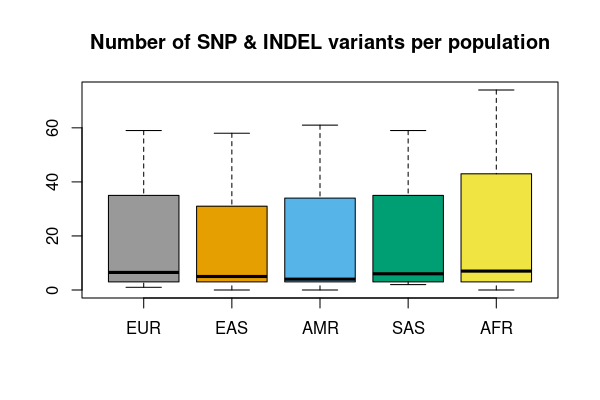
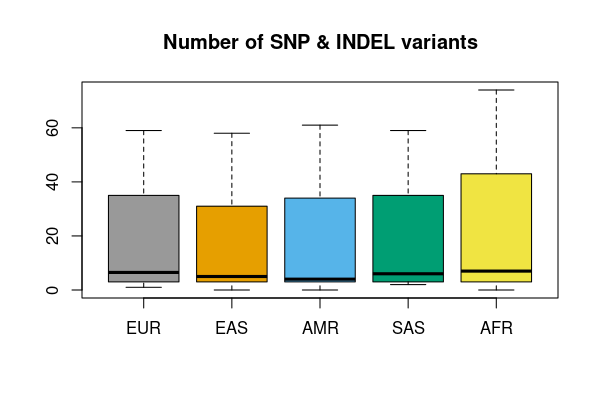
update pkgdown

Changed region(s): [[0.15, 0.06, 0.93, 0.15]]

diff --git a/docs/index.html b/docs/index.html
@@ -106,25 +106,46 @@
 <span><span class="va">popfile</span> <span class="op">&lt;-</span> <span class="st">"https://ftp.1000genomes.ebi.ac.uk/vol1/ftp/data_collections/1000G_2504_high_coverage/20130606_g1k_3202_samples_ped_population.txt"</span></span></code></pre></div>
 </div>
 <div class="section level2">
+<h2 id="vcftable-read-vcf-as-tabular-data">
+<code>vcftable</code>: read VCF as tabular data<a class="anchor" aria-label="anchor" href="#vcftable-read-vcf-as-tabular-data"></a>
+</h2>
+<p><code>vcftable</code> gives you fine control over what you want to extract from VCF/BCF files.</p>
+<p><strong>Read SNP variants with GT format and two samples</strong></p>
+<div class="sourceCode" id="cb4"><pre class="downlit sourceCode r">
+<code class="sourceCode R"><span><span class="kw"><a href="https://rdrr.io/r/base/library.html" class="external-link">library</a></span><span class="op">(</span><span class="va"><a href="https://github.com/Zilong-Li/vcfppR" class="external-link">vcfppR</a></span><span class="op">)</span></span>
+<span><span class="va">res</span> <span class="op">&lt;-</span> <span class="fu"><a href="reference/vcftable.html">vcftable</a></span><span class="op">(</span><span class="va">phasedvcf</span>, <span class="st">"chr21:1-5100000"</span>, samples <span class="op">=</span> <span class="st">"HG00673,NA10840"</span>, vartype <span class="op">=</span> <span class="st">"snps"</span><span class="op">)</span></span>
+<span><span class="fu"><a href="https://rdrr.io/r/utils/str.html" class="external-link">str</a></span><span class="op">(</span><span class="va">res</span><span class="op">)</span></span>
+<span><span class="co">#&gt; List of 10</span></span>
+<span><span class="co">#&gt;  $ samples: chr [1:2] "HG00673" "NA10840"</span></span>
+<span><span class="co">#&gt;  $ chr    : chr [1:194] "chr21" "chr21" "chr21" "chr21" ...</span></span>
+<span><span class="co">#&gt;  $ pos    : int [1:194] 5030578 5030588 5030596 5030673 5030957 5030960 5031004 5031031 5031194 5031224 ...</span></span>
+<span><span class="co">#&gt;  $ id     : chr [1:194] "21:5030578:C:T" "21:5030588:T:C" "21:5030596:A:G" "21:5030673:G:A" ...</span></span>
+<span><span class="co">#&gt;  $ ref    : chr [1:194] "C" "T" "A" "G" ...</span></span>
+<span><span class="co">#&gt;  $ alt    : chr [1:194] "T" "C" "G" "A" ...</span></span>
+<span><span class="co">#&gt;  $ qual   : num [1:194] 2.14e+09 2.14e+09 2.14e+09 2.14e+09 2.14e+09 ...</span></span>
+<span><span class="co">#&gt;  $ filter : chr [1:194] "." "." "." "." ...</span></span>
+<span><span class="co">#&gt;  $ info   : chr [1:194] "AC=74;AF=0.0115553;CM=0;AN=6404;AN_EAS=1170;AN_AMR=980;AN_EUR=1266;AN_AFR=1786;AN_SAS=1202;AN_EUR_unrel=1006;AN"| __truncated__ "AC=53;AF=0.00827608;CM=1.78789e-05;AN=6404;AN_EAS=1170;AN_AMR=980;AN_EUR=1266;AN_AFR=1786;AN_SAS=1202;AN_EUR_un"| __truncated__ "AC=2;AF=0.000312305;CM=3.21821e-05;AN=6404;AN_EAS=1170;AN_AMR=980;AN_EUR=1266;AN_AFR=1786;AN_SAS=1202;AN_EUR_un"| __truncated__ "AC=2;AF=0.000312305;CM=0.00016985;AN=6404;AN_EAS=1170;AN_AMR=980;AN_EUR=1266;AN_AFR=1786;AN_SAS=1202;AN_EUR_unr"| __truncated__ ...</span></span>
+<span><span class="co">#&gt;  $ gt     : int [1:194, 1:2] 0 0 0 0 0 0 0 0 0 0 ...</span></span>
+<span><span class="co">#&gt;  - attr(*, "class")= chr "vcftable"</span></span></code></pre></div>
+<p><strong>Read INDEL variants with DP format and QUAL&gt;100</strong></p>
+<div class="sourceCode" id="cb5"><pre class="downlit sourceCode r">
+<code class="sourceCode R"><span><span class="va">res</span> <span class="op">&lt;-</span> <span class="fu"><a href="reference/vcftable.html">vcftable</a></span><span class="op">(</span><span class="va">rawvcf</span>, <span class="st">"chr21:1-5100000"</span>, vartype <span class="op">=</span> <span class="st">"indels"</span>, format <span class="op">=</span> <span class="st">"DP"</span>, qual<span class="op">=</span><span class="fl">100</span><span class="op">)</span></span>
+<span><span class="fu"><a href="reference/vcfplot.html">vcfplot</a></span><span class="op">(</span><span class="va">res</span>, which.sample <span class="op">=</span> <span class="fl">10</span>, ylim<span class="op">=</span><span class="fu"><a href="https://rdrr.io/r/base/c.html" class="external-link">c</a></span><span class="op">(</span><span class="fl">0</span>,<span class="fl">60</span><span class="op">)</span>, col <span class="op">=</span> <span class="fl">3</span>, pch<span class="op">=</span><span class="fl">19</span><span class="op">)</span></span></code></pre></div>
+<p><img src="reference/figures/README-dp-1.png" width="100%"></p>
+</div>
+<div class="section level2">
 <h2 id="vcfcomp-compare-two-vcf-files-and-report-concordance">
 <code>vcfcomp</code>: compare two VCF files and report concordance<a class="anchor" aria-label="anchor" href="#vcfcomp-compare-two-vcf-files-and-report-concordance"></a>
 </h2>
 <p>Want to investigate the concordance between two VCF files? <code>vcfcomp</code> is the utility function you need! For example, in benchmarkings, we intend to calculate the genotype correlation between the test and the truth.</p>
-<div class="sourceCode" id="cb4"><pre class="downlit sourceCode r">
-<code class="sourceCode R"><span><span class="kw"><a href="https://rdrr.io/r/base/library.html" class="external-link">library</a></span><span class="op">(</span><span class="va"><a href="https://github.com/Zilong-Li/vcfppR" class="external-link">vcfppR</a></span><span class="op">)</span></span>
-<span><span class="va">res</span> <span class="op">&lt;-</span> <span class="fu"><a href="reference/vcfcomp.html">vcfcomp</a></span><span class="op">(</span>test <span class="op">=</span> <span class="va">rawvcf</span>, truth <span class="op">=</span> <span class="va">phasedvcf</span>,</span>
+<div class="sourceCode" id="cb6"><pre class="downlit sourceCode r">
+<code class="sourceCode R"><span><span class="va">res</span> <span class="op">&lt;-</span> <span class="fu"><a href="reference/vcfcomp.html">vcfcomp</a></span><span class="op">(</span>test <span class="op">=</span> <span class="va">rawvcf</span>, truth <span class="op">=</span> <span class="va">phasedvcf</span>,</span>
 <span>               stats <span class="op">=</span> <span class="st">"r2"</span>, region <span class="op">=</span> <span class="st">"chr21:1-5100000"</span>, </span>
 <span>               formats <span class="op">=</span> <span class="fu"><a href="https://rdrr.io/r/base/c.html" class="external-link">c</a></span><span class="op">(</span><span class="st">"GT"</span>,<span class="st">"GT"</span><span class="op">)</span><span class="op">)</span></span>
 <span><span class="fu"><a href="https://rdrr.io/r/graphics/par.html" class="external-link">par</a></span><span class="op">(</span>mar<span class="op">=</span><span class="fu"><a href="https://rdrr.io/r/base/c.html" class="external-link">c</a></span><span class="op">(</span><span class="fl">5</span>,<span class="fl">5</span>,<span class="fl">2</span>,<span class="fl">2</span><span class="op">)</span>, cex.lab <span class="op">=</span> <span class="fl">2</span><span class="op">)</span></span>
 <span><span class="fu"><a href="reference/vcfplot.html">vcfplot</a></span><span class="op">(</span><span class="va">res</span>, col <span class="op">=</span> <span class="fl">2</span>,cex <span class="op">=</span> <span class="fl">2</span>, lwd <span class="op">=</span> <span class="fl">3</span>, type <span class="op">=</span> <span class="st">"b"</span><span class="op">)</span></span></code></pre></div>
 <p><img src="reference/figures/README-r2-1.png" width="100%"></p>
-<div class="sourceCode" id="cb5"><pre class="downlit sourceCode r">
-<code class="sourceCode R"><span><span class="va">res</span> <span class="op">&lt;-</span> <span class="fu"><a href="reference/vcfcomp.html">vcfcomp</a></span><span class="op">(</span>test <span class="op">=</span> <span class="va">rawvcf</span>, truth <span class="op">=</span> <span class="va">phasedvcf</span>,</span>
-<span>               stats <span class="op">=</span> <span class="st">"f1"</span>, region <span class="op">=</span> <span class="st">"chr21:5100000-6000000"</span>, </span>
-<span>               by.sample <span class="op">=</span> <span class="cn">T</span><span class="op">)</span></span>
-<span><span class="fu"><a href="https://rdrr.io/r/graphics/par.html" class="external-link">par</a></span><span class="op">(</span>mar<span class="op">=</span><span class="fu"><a href="https://rdrr.io/r/base/c.html" class="external-link">c</a></span><span class="op">(</span><span class="fl">5</span>,<span class="fl">5</span>,<span class="fl">2</span>,<span class="fl">2</span><span class="op">)</span>, cex.lab <span class="op">=</span> <span class="fl">2</span><span class="op">)</span></span>
-<span><span class="fu"><a href="reference/vcfplot.html">vcfplot</a></span><span class="op">(</span><span class="va">res</span>, cex <span class="op">=</span> <span class="fl">2</span>, lwd <span class="op">=</span> <span class="fl">3</span>, type <span class="op">=</span> <span class="st">"b"</span>, which.sample <span class="op">=</span> <span class="fl">1</span><span class="op">:</span><span class="fl">3</span><span class="op">)</span></span></code></pre></div>
-<div class="sourceCode" id="cb6"><pre class="downlit sourceCode r">
+<div class="sourceCode" id="cb7"><pre class="downlit sourceCode r">
 <code class="sourceCode R"><span><span class="va">res</span> <span class="op">&lt;-</span> <span class="fu"><a href="reference/vcfcomp.html">vcfcomp</a></span><span class="op">(</span>test <span class="op">=</span> <span class="va">rawvcf</span>, truth <span class="op">=</span> <span class="va">phasedvcf</span>,</span>
 <span>               stats <span class="op">=</span> <span class="st">"pse"</span>,</span>
 <span>               region <span class="op">=</span> <span class="st">"chr21:5000000-5500000"</span>,</span>
@@ -141,64 +162,21 @@
 </h2>
 <p>Want to summarize variants discovered by genotype caller e.g. GATK? <code>vcfsummary</code> is the utility function you need!</p>
 <p><strong>Small variants</strong></p>
-<div class="sourceCode" id="cb7"><pre class="downlit sourceCode r">
+<div class="sourceCode" id="cb8"><pre class="downlit sourceCode r">
 <code class="sourceCode R"><span><span class="va">res</span> <span class="op">&lt;-</span> <span class="fu"><a href="reference/vcfsummary.html">vcfsummary</a></span><span class="op">(</span><span class="va">rawvcf</span>,<span class="st">"chr21:10000000-10010000"</span><span class="op">)</span></span>
-<span><span class="fu"><a href="reference/vcfplot.html">vcfplot</a></span><span class="op">(</span><span class="va">res</span>, pop <span class="op">=</span> <span class="va">popfile</span>, col <span class="op">=</span> <span class="fl">1</span><span class="op">:</span><span class="fl">5</span>, main <span class="op">=</span> <span class="st">"Number of SNP &amp; INDEL variants per population"</span><span class="op">)</span></span></code></pre></div>
+<span><span class="fu"><a href="reference/vcfplot.html">vcfplot</a></span><span class="op">(</span><span class="va">res</span>, pop <span class="op">=</span> <span class="va">popfile</span>, col <span class="op">=</span> <span class="fl">1</span><span class="op">:</span><span class="fl">5</span>, main <span class="op">=</span> <span class="st">"Number of SNP &amp; INDEL variants"</span><span class="op">)</span></span></code></pre></div>
 <p><img src="reference/figures/README-summary_sm-1.png" width="100%"></p>
 <p><strong>Complex structure variants</strong></p>
-<div class="sourceCode" id="cb8"><pre class="downlit sourceCode r">
+<div class="sourceCode" id="cb9"><pre class="downlit sourceCode r">
 <code class="sourceCode R"><span><span class="va">res</span> <span class="op">&lt;-</span> <span class="fu"><a href="reference/vcfsummary.html">vcfsummary</a></span><span class="op">(</span><span class="va">svfile</span>, svtype <span class="op">=</span> <span class="cn">TRUE</span>, region <span class="op">=</span> <span class="st">"chr20"</span><span class="op">)</span></span>
 <span><span class="fu"><a href="reference/vcfplot.html">vcfplot</a></span><span class="op">(</span><span class="va">res</span>, main <span class="op">=</span> <span class="st">"Structure Variant Counts"</span>, col <span class="op">=</span> <span class="fl">1</span><span class="op">:</span><span class="fl">7</span><span class="op">)</span></span></code></pre></div>
 <p><img src="reference/figures/README-summary_sv-1.png" width="100%"></p>
 </div>
 <div class="section level2">
-<h2 id="vcftable-read-vcf-as-tabular-data">
-<code>vcftable</code>: read VCF as tabular data<a class="anchor" aria-label="anchor" href="#vcftable-read-vcf-as-tabular-data"></a>
-</h2>
-<p><code>vcftable</code> gives you fine control over what you want to extract from VCF/BCF files.</p>
-<p><strong>Read SNP variants with GT format and two samples</strong></p>
-<div class="sourceCode" id="cb9"><pre class="downlit sourceCode r">
-<code class="sourceCode R"><span><span class="va">res</span> <span class="op">&lt;-</span> <span class="fu"><a href="reference/vcftable.html">vcftable</a></span><span class="op">(</span><span class="va">phasedvcf</span>, <span class="st">"chr21:1-5100000"</span>, samples <span class="op">=</span> <span class="st">"HG00673,NA10840"</span>, vartype <span class="op">=</span> <span class="st">"snps"</span><span class="op">)</span></span>
-<span><span class="fu"><a href="https://rdrr.io/r/utils/str.html" class="external-link">str</a></span><span class="op">(</span><span class="va">res</span><span class="op">)</span></span>
-<span><span class="co">#&gt; List of 10</span></span>
-<span><span class="co">#&gt;  $ samples: chr [1:2] "HG00673" "NA10840"</span></span>
-<span><span class="co">#&gt;  $ chr    : chr [1:194] "chr21" "chr21" "chr21" "chr21" ...</span></span>
-<span><span class="co">#&gt;  $ pos    : int [1:194] 5030578 5030588 5030596 5030673 5030957 5030960 5031004 5031031 5031194 5031224 ...</span></span>
-<span><span class="co">#&gt;  $ id     : chr [1:194] "21:5030578:C:T" "21:5030588:T:C" "21:5030596:A:G" "21:5030673:G:A" ...</span></span>
-<span><span class="co">#&gt;  $ ref    : chr [1:194] "C" "T" "A" "G" ...</span></span>
-<span><span class="co">#&gt;  $ alt    : chr [1:194] "T" "C" "G" "A" ...</span></span>
-<span><span class="co">#&gt;  $ qual   : num [1:194] 2.14e+09 2.14e+09 2.14e+09 2.14e+09 2.14e+09 ...</span></span>
-<span><span class="co">#&gt;  $ filter : chr [1:194] "." "." "." "." ...</span></span>
-<span><span class="co">#&gt;  $ info   : chr [1:194] "AC=74;AF=0.0115553;CM=0;AN=6404;AN_EAS=1170;AN_AMR=980;AN_EUR=1266;AN_AFR=1786;AN_SAS=1202;AN_EUR_unrel=1006;AN"| __truncated__ "AC=53;AF=0.00827608;CM=1.78789e-05;AN=6404;AN_EAS=1170;AN_AMR=980;AN_EUR=1266;AN_AFR=1786;AN_SAS=1202;AN_EUR_un"| __truncated__ "AC=2;AF=0.000312305;CM=3.21821e-05;AN=6404;AN_EAS=1170;AN_AMR=980;AN_EUR=1266;AN_AFR=1786;AN_SAS=1202;AN_EUR_un"| __truncated__ "AC=2;AF=0.000312305;CM=0.00016985;AN=6404;AN_EAS=1170;AN_AMR=980;AN_EUR=1266;AN_AFR=1786;AN_SAS=1202;AN_EUR_unr"| __truncated__ ...</span></span>
-<span><span class="co">#&gt;  $ gt     : int [1:194, 1:2] 0 0 0 0 0 0 0 0 0 0 ...</span></span>
-<span><span class="co">#&gt;  - attr(*, "class")= chr "vcftable"</span></span></code></pre></div>
-<p><strong>Read SNP variants with PL format and drop the INFO column</strong></p>
-<div class="sourceCode" id="cb10"><pre class="downlit sourceCode r">
-<code class="sourceCode R"><span><span class="va">res</span> <span class="op">&lt;-</span> <span class="fu"><a href="reference/vcftable.html">vcftable</a></span><span class="op">(</span><span class="va">rawvcf</span>, <span class="st">"chr21:1-5100000"</span>, vartype <span class="op">=</span> <span class="st">"snps"</span>, format <span class="op">=</span> <span class="st">"PL"</span>, info <span class="op">=</span> <span class="cn">FALSE</span><span class="op">)</span></span>
-<span><span class="fu"><a href="https://rdrr.io/r/utils/str.html" class="external-link">str</a></span><span class="op">(</span><span class="va">res</span><span class="op">)</span></span>
-<span><span class="co">#&gt; List of 10</span></span>
-<span><span class="co">#&gt;  $ samples: chr [1:3202] "HG00096" "HG00097" "HG00099" "HG00100" ...</span></span>
-<span><span class="co">#&gt;  $ chr    : chr [1:1383] "chr21" "chr21" "chr21" "chr21" ...</span></span>
-<span><span class="co">#&gt;  $ pos    : int [1:1383] 5030082 5030088 5030105 5030253 5030278 5030347 5030356 5030357 5030391 5030446 ...</span></span>
-<span><span class="co">#&gt;  $ id     : chr [1:1383] "." "." "." "." ...</span></span>
-<span><span class="co">#&gt;  $ ref    : chr [1:1383] "G" "C" "C" "G" ...</span></span>
-<span><span class="co">#&gt;  $ alt    : chr [1:1383] "A" "T" "A" "T" ...</span></span>
-<span><span class="co">#&gt;  $ qual   : num [1:1383] 70.1 2773.1 3897.8 102.6 868.9 ...</span></span>
-<span><span class="co">#&gt;  $ filter : chr [1:1383] "VQSRTrancheSNP99.80to100.00" "VQSRTrancheSNP99.80to100.00" "VQSRTrancheSNP99.80to100.00" "VQSRTrancheSNP99.80to100.00" ...</span></span>
-<span><span class="co">#&gt;  $ info   : chr(0) </span></span>
-<span><span class="co">#&gt;  $ PL     : int [1:1383, 1:9606] NA 64 64 0 0 0 0 0 0 0 ...</span></span>
-<span><span class="co">#&gt;  - attr(*, "class")= chr "vcftable"</span></span></code></pre></div>
-<p><strong>Read INDEL variants with DP format and QUAL&gt;100</strong></p>
-<div class="sourceCode" id="cb11"><pre class="downlit sourceCode r">
-<code class="sourceCode R"><span><span class="va">res</span> <span class="op">&lt;-</span> <span class="fu"><a href="reference/vcftable.html">vcftable</a></span><span class="op">(</span><span class="va">rawvcf</span>, <span class="st">"chr21:1-5100000"</span>, vartype <span class="op">=</span> <span class="st">"indels"</span>, format <span class="op">=</span> <span class="st">"DP"</span>, qual<span class="op">=</span><span class="fl">100</span><span class="op">)</span></span>
-<span><span class="fu"><a href="reference/vcfplot.html">vcfplot</a></span><span class="op">(</span><span class="va">res</span>, which.sample <span class="op">=</span> <span class="fl">10</span>, ylim<span class="op">=</span><span class="fu"><a href="https://rdrr.io/r/base/c.html" class="external-link">c</a></span><span class="op">(</span><span class="fl">0</span>,<span class="fl">100</span><span class="op">)</span><span class="op">)</span></span></code></pre></div>
-<p><img src="reference/figures/README-indel-1.png" width="100%"></p>
-</div>
-<div class="section level2">
 <h2 id="r-api-of-vcfpph">R API of vcfpp.h<a class="anchor" aria-label="anchor" href="#r-api-of-vcfpph"></a>
 </h2>
 <p>There are two classes i.e. <strong><em>vcfreader</em></strong> and <strong><em>vcfwriter</em></strong> offering the full R-bindings of vcfpp.h. Check out the examples in the <a href="tests/testthat">tests</a> folder or refer to the manual.</p>
-<div class="sourceCode" id="cb12"><pre class="downlit sourceCode r">
+<div class="sourceCode" id="cb10"><pre class="downlit sourceCode r">
 <code class="sourceCode R"><span><span class="op">?</span><span class="fu">vcfppR</span><span class="fu">::</span><span class="va"><a href="reference/vcfreader.html">vcfreader</a></span></span></code></pre></div>
 </div>
 </div>

diff --git a/README.md b/README.md
@@ -106,14 +106,6 @@ vcfplot(res, col = 2,cex = 2, lwd = 3, type = "b")
 
 ``` r
 res <- vcfcomp(test = rawvcf, truth = phasedvcf,
-               stats = "f1", region = "chr21:5100000-6000000", 
-               by.sample = T)
-par(mar=c(5,5,2,2), cex.lab = 2)
-vcfplot(res, cex = 2, lwd = 3, type = "b", which.sample = 1:3)
-```
-
-``` r
-res <- vcfcomp(test = rawvcf, truth = phasedvcf,
                stats = "pse",
                region = "chr21:5000000-5500000",
                samples = "HG00673,NA10840",
@@ -136,7 +128,7 @@ Want to summarize variants discovered by genotype caller e.g. GATK?
 
 ``` r
 res <- vcfsummary(rawvcf,"chr21:10000000-10010000")
-vcfplot(res, pop = popfile, col = 1:5, main = "Number of SNP & INDEL variants per population")
+vcfplot(res, pop = popfile, col = 1:5, main = "Number of SNP & INDEL variants")
 ```
 
 <img src="man/figures/README-summary_sm-1.png" width="100%" />
